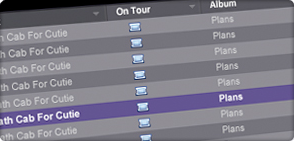
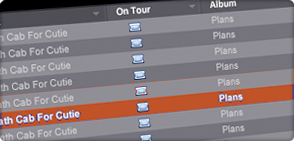
Change Branding on Concerts addon
Note:  I have not been able to get this to work properly on Nightingale
yet.

diff --git a/extensions/concerts/chrome/skin/overlay.css b/extensions/concerts/chrome/skin/overlay.css
@@ -7,7 +7,7 @@
 
 #concerts-firstrun-page description,
 #concerts-firstrun-page label {
-  color: rgb(79,61,99);
+  color: rgb(171,74,35); /*rgb(79,61,99);*/
   line-height: 25px;
 }
 
@@ -74,7 +74,7 @@ hbox#command-buttons {
   padding-left: 5em;
 }
 button#pref-cancel-button > hbox > label {
-  color: rgb(79,61,99);
+color: rgb(171,74,35); /*rgb(79,61,99);*/
 }
 button#pref-cancel-button {
 	visibility: hidden;
